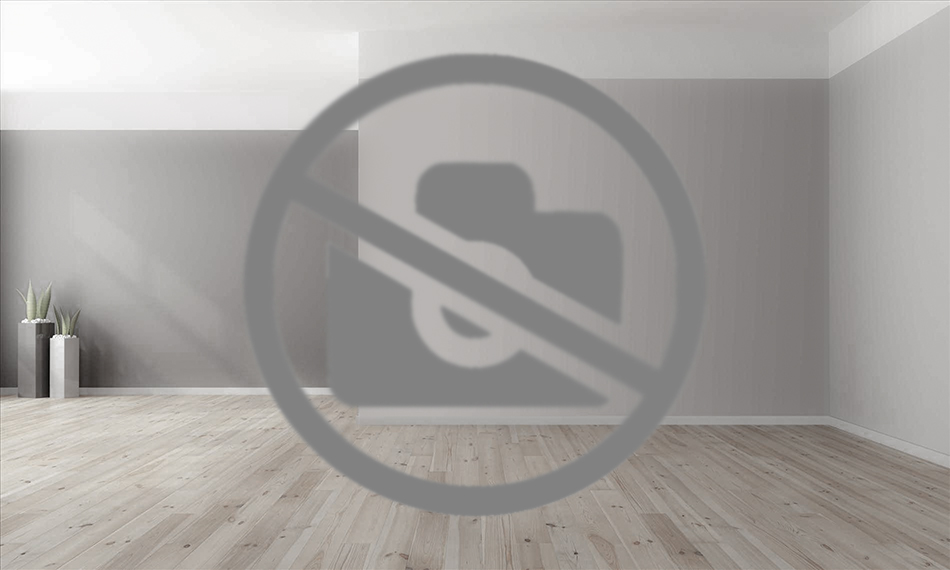
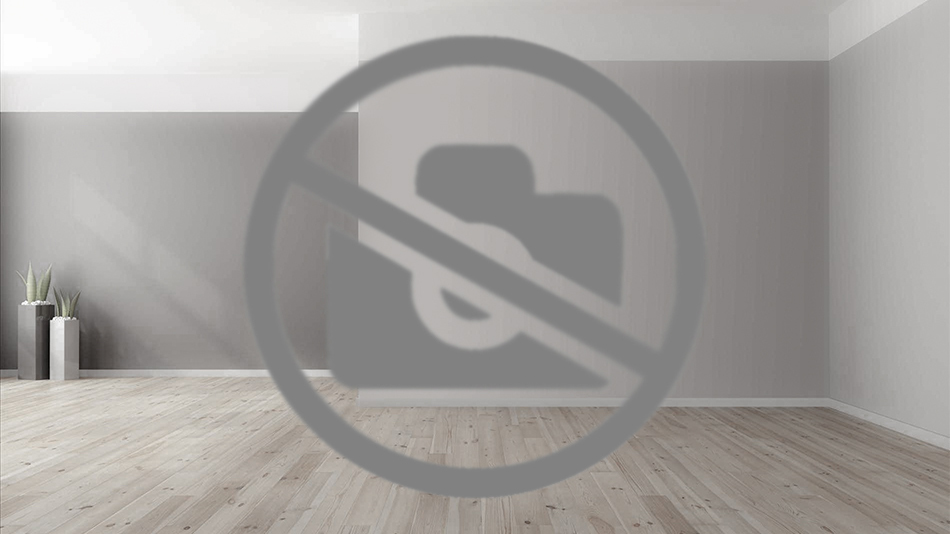
set correct aspect ratio for dummy image, add info for supported aspect ratio and filesize

diff --git a/albiFront/src/app/components/sublet-add/sublet-add.component.html b/albiFront/src/app/components/sublet-add/sublet-add.component.html
@@ -75,13 +75,16 @@
       </mat-form-field>
     </p>
 
-    <input type="file" multiple (change)="selectFiles($event)" />
-    <button mat-raised-button color="primary"
-            [disabled]="!selectedFiles"
-            (click)="uploadFiles()"
-            type="button">
-      Kép feltöltése
-    </button>
+    <p>
+      A képeket egyesével, vagy egyszerre is fel lehet tölteni. <br /> Támogatott képarány 16:9. Maximális fájlméret 2 MB.<br />
+      <input type="file" multiple (change)="selectFiles($event)" />
+      <button mat-raised-button color="primary"
+              [disabled]="!selectedFiles"
+              (click)="uploadFiles()"
+              type="button">
+        Kép feltöltése
+      </button>
+    </p>
 
     <div *ngIf="imageNames" class="imageHolder">
       <img *ngFor="let url of imageNames" src="http://localhost:8080/files/{{url}}" />

diff --git a/albiFront/src/app/components/sublets/sublets.component.html b/albiFront/src/app/components/sublets/sublets.component.html
@@ -22,7 +22,6 @@
     <mat-card-title>{{sublet.address}}</mat-card-title>
 
     <mat-card-content>
-
         <img *ngIf="sublet.images.length == 0" src="assets/no-image.jpg" style="width:100%;">
         <div *ngIf="sublet.images.length > 0">
           <mat-carousel timings="250ms ease-in"
@@ -43,16 +42,11 @@
                                 *ngFor="let url of sublet.images; let i = index"
                                 [image]="url"
                                 overlayColor="#00000040"
-                                [hideOverlay]="false">
+                                [hideOverlay]="true">
 
             </mat-carousel-slide>
           </mat-carousel>
         </div>
-        
-
-
-
-
 
         <mat-grid-list cols="5" rowHeight="50px">
           <mat-grid-tile colspan="1" rowspan="1">

diff --git a/albiFront/src/app/components/sublets/sublets.component.css b/albiFront/src/app/components/sublets/sublets.component.css
@@ -28,14 +28,11 @@ div.sortBar{
     width: 300px;
 }
 
-
 div.card-image > img {
   min-width: 100%;
   display: block;
   margin: auto;
 }
-
-
 
 h2 {
   text-align: center;
